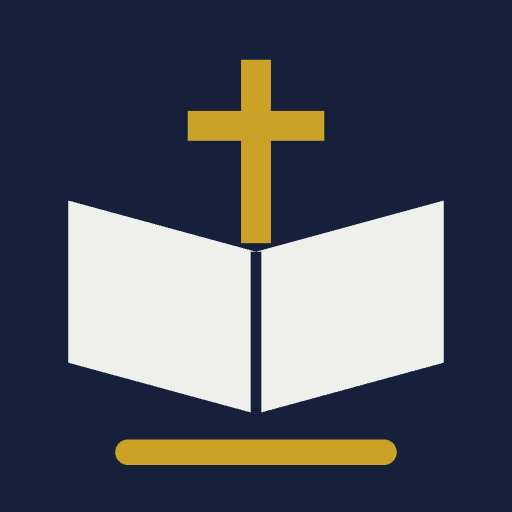
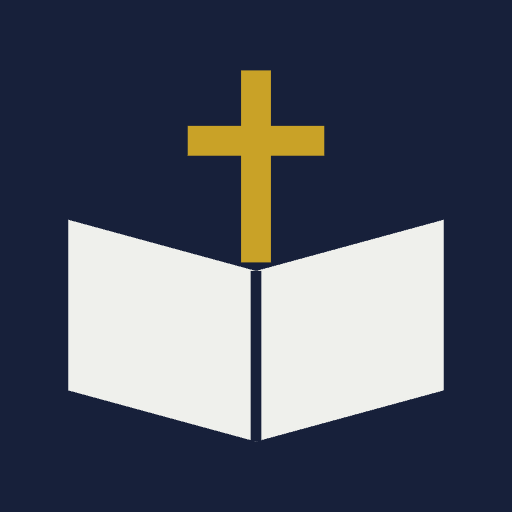
Add files via upload

diff --git a/index.html b/index.html
@@ -4,8 +4,8 @@
 <meta charset="utf-8">
 <meta name="viewport" content="width=device-width, initial-scale=1, viewport-fit=cover">
 <title>BSEBC Youth Choir</title>
-<link rel="icon" href="favicon.svg" type="image/svg+xml">
-<link rel="apple-touch-icon" href="apple-touch-icon.png">
+<link rel="icon" href="favicon.svg?v=3135" type="image/svg+xml">
+<link rel="apple-touch-icon" href="apple-touch-icon.png?v=3135">
 <link rel="manifest" href="site.webmanifest">
 <meta name="theme-color" content="#17203a">
 <meta name="mobile-web-app-capable" content="yes">
@@ -847,7 +847,7 @@ const qField = () => `<span class="qwrap"><input class="field" id="q" placeholde
 function localISO(d){ return d.getFullYear() + '-' + String(d.getMonth()+1).padStart(2,'0') + '-' + String(d.getDate()).padStart(2,'0'); }
 function today(){ return localISO(new Date()); }
 const EPOCH = '2017-01-01';        // no choir records exist before this
-const VERSION = '3.13.0';
+const VERSION = '3.13.5';
 if (location.search.indexOf('menu') > -1) S.menuOpen = true;
 /* what to say under "Release notes" — one list per major version */
 const NOTES = { '3': {
@@ -1295,7 +1295,7 @@ async function saveRules(){
 function mast(){
   return `<div class="mast">
     <a href="#/home" class="mbrand" style="display:flex;align-items:center;gap:11px;color:inherit;min-width:0">
-      <svg class="logo" viewBox="0 0 120 120" aria-hidden="true"><rect x="56.5" y="10" width="7" height="45" fill="#c9a227"></rect><rect x="44" y="23" width="32" height="7" fill="#c9a227"></rect><path d="M16 45 L60 57 L60 97 L16 85 Z" fill="#eff0ec"></path><path d="M104 45 L60 57 L60 97 L104 85 Z" fill="#eff0ec"></path><path d="M60 57 L60 97" stroke="#17203a" stroke-width="2.5"></path><rect x="27" y="103" width="66" height="6" rx="3" fill="#c9a227"></rect></svg>
+      <svg class="logo" viewBox="0 0 120 120" aria-hidden="true"><g transform="translate(0 6.5)"><rect x="56.5" y="10" width="7" height="45" fill="#c9a227"></rect><rect x="44" y="23" width="32" height="7" fill="#c9a227"></rect><path d="M16 45 L60 57 L60 97 L16 85 Z" fill="#eff0ec"></path><path d="M104 45 L60 57 L60 97 L104 85 Z" fill="#eff0ec"></path><path d="M60 57 L60 97" stroke="#17203a" stroke-width="2.5"></path></g></svg>
       <div class="brand">Youth Choir</div>
     </a>
     <div class="lang">
@@ -1325,7 +1325,7 @@ function drawerNav(){
   return `<div class="scrim${S.menuOpen?' on':''}" data-menu-x></div>
   <nav class="drawer${S.menuOpen?' on':''}" aria-label="Menu">
     <div class="dhead">
-      <svg class="logo" viewBox="0 0 120 120" aria-hidden="true"><rect x="56.5" y="10" width="7" height="45" fill="#c9a227"></rect><rect x="44" y="23" width="32" height="7" fill="#c9a227"></rect><path d="M16 45 L60 57 L60 97 L16 85 Z" fill="#eff0ec"></path><path d="M104 45 L60 57 L60 97 L104 85 Z" fill="#eff0ec"></path><path d="M60 57 L60 97" stroke="#17203a" stroke-width="2.5"></path><rect x="27" y="103" width="66" height="6" rx="3" fill="#c9a227"></rect></svg>
+      <svg class="logo" viewBox="0 0 120 120" aria-hidden="true"><g transform="translate(0 6.5)"><rect x="56.5" y="10" width="7" height="45" fill="#c9a227"></rect><rect x="44" y="23" width="32" height="7" fill="#c9a227"></rect><path d="M16 45 L60 57 L60 97 L16 85 Z" fill="#eff0ec"></path><path d="M104 45 L60 57 L60 97 L104 85 Z" fill="#eff0ec"></path><path d="M60 57 L60 97" stroke="#17203a" stroke-width="2.5"></path></g></svg>
       <div class="t">Youth Choir</div>
       <div class="lang dlang">
         <button data-lang="en" class="${S.lang==='en'?'on':''}">EN</button>
@@ -2085,7 +2085,7 @@ function manageMembers(){
 }
 function loginPage(){
   return `<div class="loginwrap"><div class="login">
-    <div class="lhead"><div class="lmark"><svg class="logo" viewBox="0 0 120 120" aria-hidden="true"><rect x="56.5" y="10" width="7" height="45" fill="#c9a227"></rect><rect x="44" y="23" width="32" height="7" fill="#c9a227"></rect><path d="M16 45 L60 57 L60 97 L16 85 Z" fill="#eff0ec"></path><path d="M104 45 L60 57 L60 97 L104 85 Z" fill="#eff0ec"></path><path d="M60 57 L60 97" stroke="#17203a" stroke-width="2.5"></path><rect x="27" y="103" width="66" height="6" rx="3" fill="#c9a227"></rect></svg></div>
+    <div class="lhead"><div class="lmark"><svg class="logo" viewBox="0 0 120 120" aria-hidden="true"><g transform="translate(0 6.5)"><rect x="56.5" y="10" width="7" height="45" fill="#c9a227"></rect><rect x="44" y="23" width="32" height="7" fill="#c9a227"></rect><path d="M16 45 L60 57 L60 97 L16 85 Z" fill="#eff0ec"></path><path d="M104 45 L60 57 L60 97 L104 85 Z" fill="#eff0ec"></path><path d="M60 57 L60 97" stroke="#17203a" stroke-width="2.5"></path></g></svg></div>
       <div class="lt">${esc(t('signin'))}</div></div>
     ${S.error ? `<div class="err">${esc(S.error)}</div>` : ''}
     <form id="loginform" method="post" action="#/login" autocomplete="on" style="display:grid;gap:14px">

diff --git a/sw.js b/sw.js
@@ -3,10 +3,11 @@
    - Supabase reads: try the network, fall back to the last successful response
    - writes are never cached — they need a connection                      */
 
-const SHELL = 'bsebc-youth-shell-v1';
-const DATA  = 'bsebc-youth-data-v1';
-const SHELL_FILES = ['./', './index.html', './favicon.svg', './apple-touch-icon.png',
-                     './icon-192.png', './icon-512.png', './site.webmanifest'];
+const SHELL = 'bsebc-youth-shell-v2';
+const DATA  = 'bsebc-youth-data-v2';
+const ICON_V = '?v=3135';
+const SHELL_FILES = ['./', './index.html', './favicon.svg' + ICON_V, './apple-touch-icon.png' + ICON_V,
+                     './icon-192.png' + ICON_V, './icon-512.png' + ICON_V, './site.webmanifest'];
 
 self.addEventListener('install', e => {
   e.waitUntil(caches.open(SHELL).then(c => c.addAll(SHELL_FILES)).then(() => self.skipWaiting()));
